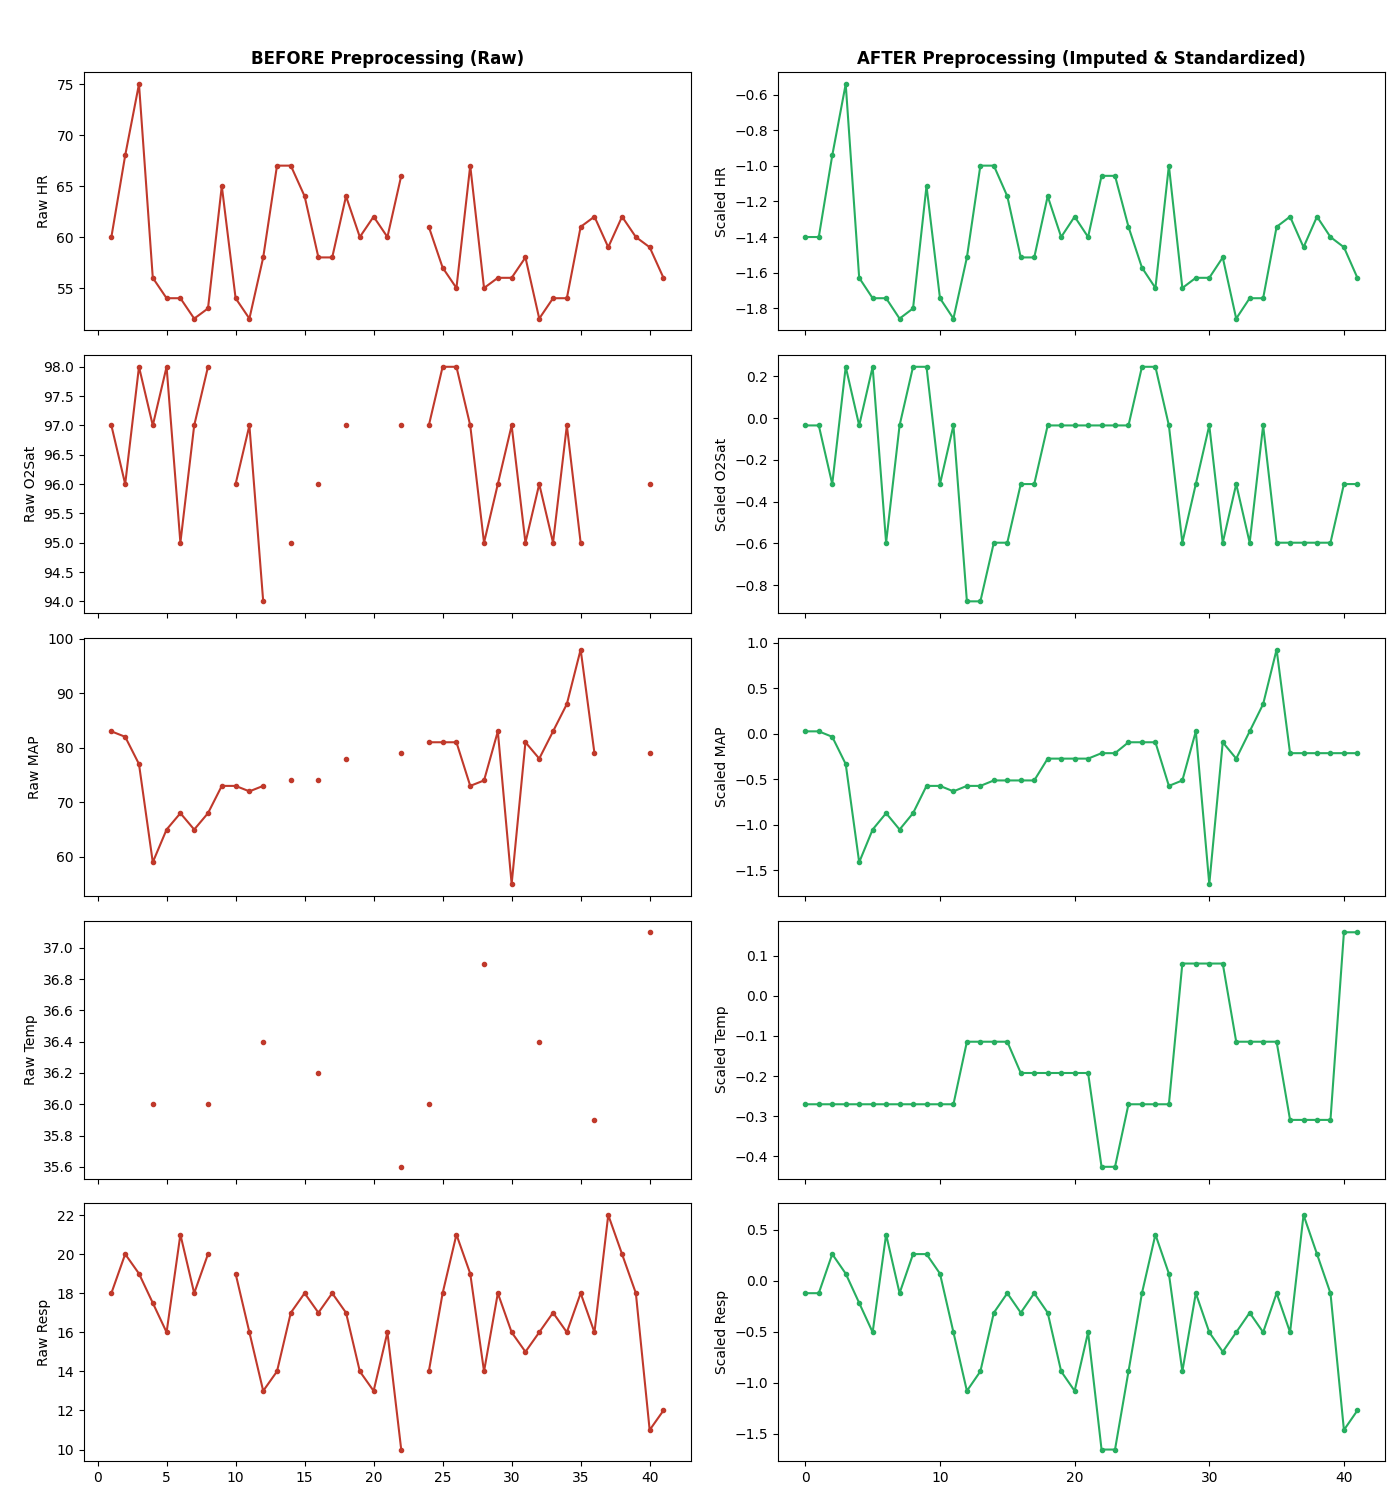
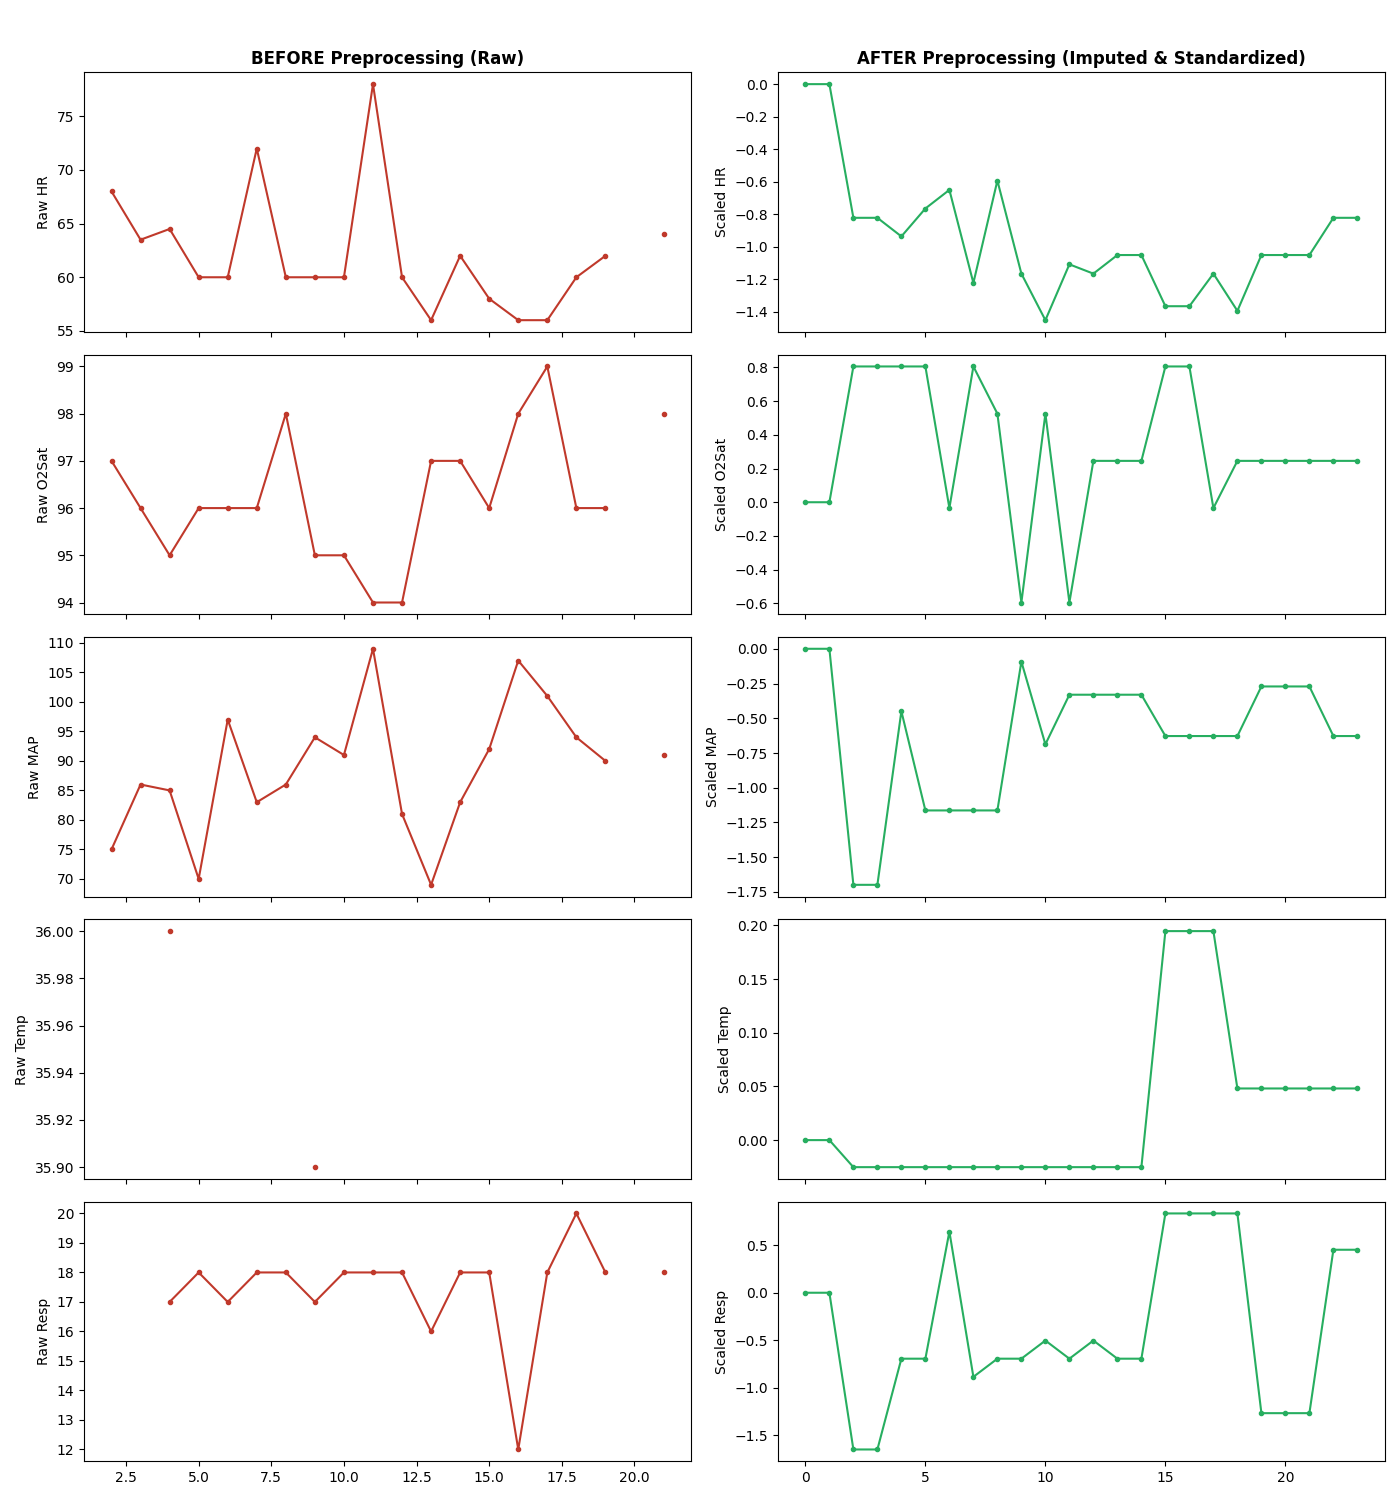
Add preprocessed verification reports and baseline LSTM evaluation results

diff --git a/results/preprocessing_verification/Preprocessing_Verification_Report.md b/results/preprocessing_verification/Preprocessing_Verification_Report.md
@@ -15,8 +15,8 @@ This report presents an independent validation and quality assurance audit of th
 | Metric | Train Split | Validation Split | Test Split | Combined | Overall Audit Status |
 | :--- | :---: | :---: | :---: | :---: | :---: |
 | **Patients** | 28,228 | 6,049 | 6,050 | 40,327 | **PASS WITH WARNINGS** |
-| **Sliding Windows** | 480,380 | 101,366 | 102,955 | 684,701 | **Score: 95/100** |
-| **Sepsis Positive** | 12,405 (2.58%) | 2,718 (2.68%) | 2,488 (2.42%) | 17,611 | **0 Patient Overlaps** |
+| **Sliding Windows** | 477,669 | 104,038 | 102,994 | 684,701 | **Score: 95/100** |
+| **Sepsis Positive** | 12,513 (2.62%) | 2,443 (2.35%) | 2,655 (2.58%) | 17,611 | **0 Patient Overlaps** |
 | **NaN / Infinite Count** | 0 / 0 | 0 / 0 | 0 / 0 | 0 / 0 | **0 Data Leakage** |
 
 ---
@@ -33,22 +33,22 @@ The preprocessed dataset is generated from the raw PhysioNet Computing in Cardio
 ### 4. Verification Details
 
 #### Stage 1: File Existence check
-* `train.pt`: **Found** (1768.37 MB)
-* `validation.pt`: **Found** (373.15 MB)
-* `test.pt`: **Found** (379.00 MB)
+* `train.pt`: **Found** (1758.39 MB)
+* `validation.pt`: **Found** (382.99 MB)
+* `test.pt`: **Found** (379.14 MB)
 * `scaler.pkl`: **Found** (1.51 KB)
-* `preprocessing_metadata.json`: **Found** (1.64 KB)
+* `preprocessing_metadata.json`: **Found** (1.58 KB)
 
 #### Stage 2: Tensor structure check
 * **Keys verified**: `features`, `labels`, `patient_ids`, `hospital_ids` in all splits.
 * **Feature data shapes**:
-  * Train features: `torch.Size([480380, 24, 40])` (`torch.float32`)
-  * Validation features: `torch.Size([101366, 24, 40])` (`torch.float32`)
-  * Test features: `torch.Size([102955, 24, 40])` (`torch.float32`)
+  * Train features: `torch.Size([477669, 24, 40])` (`torch.float32`)
+  * Validation features: `torch.Size([104038, 24, 40])` (`torch.float32`)
+  * Test features: `torch.Size([102994, 24, 40])` (`torch.float32`)
 * **Label data shapes**:
-  * Train labels: `torch.Size([480380, 1])` (`torch.float32`)
-  * Validation labels: `torch.Size([101366, 1])` (`torch.float32`)
-  * Test labels: `torch.Size([102955, 1])` (`torch.float32`)
+  * Train labels: `torch.Size([477669, 1])` (`torch.float32`)
+  * Validation labels: `torch.Size([104038, 1])` (`torch.float32`)
+  * Test labels: `torch.Size([102994, 1])` (`torch.float32`)
 
 #### Stage 3: Missing values and range checks
 * **NaN Count**: 0 (Expected: 0)
@@ -56,14 +56,14 @@ The preprocessed dataset is generated from the raw PhysioNet Computing in Cardio
 * **Empty Tensors**: None
 
 #### Stage 4: Feature standardization check
-* **Overall training mean**: 0.04549196 (Expected: ~0)
-* **Overall training standard deviation**: 1.00042272 (Expected: ~1)
+* **Overall training mean**: 0.04607653 (Expected: ~0)
+* **Overall training standard deviation**: 1.00275338 (Expected: ~1)
 * *Verification*: Standard normal distribution successfully applied. Scaling parameters successfully stored in `scaler.pkl`.
 
 #### Stage 5: Label class imbalance checks
-* **Train split**: Positive = 12,405 (2.58%), Negative = 467,975
-* **Validation split**: Positive = 2,718 (2.68%), Negative = 98,648
-* **Test split**: Positive = 2,488 (2.42%), Negative = 100,467
+* **Train split**: Positive = 12,513 (2.62%), Negative = 465,156
+* **Validation split**: Positive = 2,443 (2.35%), Negative = 101,595
+* **Test split**: Positive = 2,655 (2.58%), Negative = 100,339
 * *Imbalance note*: Highly imbalanced class distribution, typical of clinical event forecasting. Model optimization must use weighted cross entropy or focal loss.
 
 #### Stage 6 & 7: Window generation & pre-padding check
@@ -80,84 +80,88 @@ The preprocessed dataset is generated from the raw PhysioNet Computing in Cardio
 * **Train vs. Test Overlap**: 0 patients
 * **Val vs. Test Overlap**: 0 patients
 * **Hospital stratified proportions (Hospital 0 / Hospital 1)**:
-  * Train split windows: Hospital 0 = 245,152 (51.0%), Hospital 1 = 235,228
-  * Validation split windows: Hospital 0 = 52,109 (51.4%), Hospital 1 = 49,257
-  * Test split windows: Hospital 0 = 52,794 (51.3%), Hospital 1 = 50,161
+  * Train split windows: Hospital 0 = 244,529 (51.2%), Hospital 1 = 233,140
+  * Validation split windows: Hospital 0 = 53,329 (51.3%), Hospital 1 = 50,709
+  * Test split windows: Hospital 0 = 52,197 (50.7%), Hospital 1 = 50,797
 
 ---
 
 ### 5. Warnings and Errors Summary
 
 #### Warnings:
-* [WARNING] Feature HR has non-zero train mean: 0.03447
-* [WARNING] Feature O2Sat has non-unit train std: 0.92775
-* [WARNING] Feature Temp has non-zero train mean: 0.03994
-* [WARNING] Feature Temp has non-unit train std: 0.82804
-* [WARNING] Feature MAP has non-unit train std: 0.97712
-* [WARNING] Feature DBP has non-zero train mean: 0.03049
-* [WARNING] Feature DBP has non-unit train std: 0.94231
-* [WARNING] Feature Resp has non-zero train mean: 0.03832
-* [WARNING] Feature EtCO2 has non-zero train mean: 0.05687
-* [WARNING] Feature EtCO2 has non-unit train std: 1.10886
-* [WARNING] Feature BaseExcess has non-zero train mean: 0.03672
-* [WARNING] Feature BaseExcess has non-unit train std: 1.03849
-* [WARNING] Feature HCO3 has non-zero train mean: 0.02200
-* [WARNING] Feature HCO3 has non-unit train std: 0.98808
-* [WARNING] Feature FiO2 has non-unit train std: 0.48611
-* [WARNING] Feature pH has non-zero train mean: 0.15815
-* [WARNING] Feature pH has non-unit train std: 0.96309
-* [WARNING] Feature PaCO2 has non-zero train mean: 0.10593
-* [WARNING] Feature PaCO2 has non-unit train std: 0.95877
-* [WARNING] Feature SaO2 has non-zero train mean: 0.10537
-* [WARNING] Feature SaO2 has non-unit train std: 1.07216
-* [WARNING] Feature AST has non-zero train mean: 0.02361
-* [WARNING] Feature AST has non-unit train std: 1.06855
-* [WARNING] Feature BUN has non-zero train mean: 0.07053
-* [WARNING] Feature BUN has non-unit train std: 1.02085
-* [WARNING] Feature Alkalinephos has non-zero train mean: 0.06311
-* [WARNING] Feature Alkalinephos has non-unit train std: 0.98516
-* [WARNING] Feature Calcium has non-zero train mean: 0.08527
-* [WARNING] Feature Calcium has non-unit train std: 0.88341
-* [WARNING] Feature Chloride has non-zero train mean: 0.07097
-* [WARNING] Feature Chloride has non-unit train std: 0.97332
-* [WARNING] Feature Creatinine has non-zero train mean: 0.02414
-* [WARNING] Feature Creatinine has non-unit train std: 0.96951
-* [WARNING] Feature Bilirubin_direct has non-zero train mean: 0.04655
-* [WARNING] Feature Bilirubin_direct has non-unit train std: 1.20507
-* [WARNING] Feature Glucose has non-unit train std: 0.92062
-* [WARNING] Feature Lactate has non-zero train mean: 0.07548
-* [WARNING] Feature Lactate has non-unit train std: 0.93933
-* [WARNING] Feature Magnesium has non-zero train mean: 0.11664
-* [WARNING] Feature Magnesium has non-unit train std: 0.87608
-* [WARNING] Feature Phosphate has non-zero train mean: 0.09818
-* [WARNING] Feature Phosphate has non-unit train std: 0.95201
-* [WARNING] Feature Potassium has non-zero train mean: 0.04092
-* [WARNING] Feature Potassium has non-unit train std: 0.88090
-* [WARNING] Feature Bilirubin_total has non-zero train mean: 0.05682
-* [WARNING] Feature Bilirubin_total has non-unit train std: 1.09695
-* [WARNING] Feature TroponinI has non-unit train std: 1.03626
-* [WARNING] Feature Hct has non-zero train mean: 0.01905
-* [WARNING] Feature Hct has non-unit train std: 0.89127
-* [WARNING] Feature Hgb has non-zero train mean: 0.01892
-* [WARNING] Feature Hgb has non-unit train std: 0.88794
-* [WARNING] Feature PTT has non-zero train mean: 0.06878
-* [WARNING] Feature PTT has non-unit train std: 1.04375
-* [WARNING] Feature WBC has non-zero train mean: 0.03655
-* [WARNING] Feature WBC has non-unit train std: 0.97740
-* [WARNING] Feature Fibrinogen has non-zero train mean: 0.07172
-* [WARNING] Feature Fibrinogen has non-unit train std: 1.06404
-* [WARNING] Feature Platelets has non-zero train mean: 0.01915
-* [WARNING] Feature Platelets has non-unit train std: 0.97766
-* [WARNING] Feature Age has non-zero train mean: 0.02427
-* [WARNING] Feature Age has non-unit train std: 0.97909
-* [WARNING] Feature Gender has non-unit train std: 1.02520
-* [WARNING] Feature Unit1 has non-unit train std: 0.96005
-* [WARNING] Feature Unit2 has non-zero train mean: -0.03530
-* [WARNING] Feature Unit2 has non-unit train std: 0.96145
-* [WARNING] Feature HospAdmTime has non-zero train mean: -0.03286
-* [WARNING] Feature HospAdmTime has non-unit train std: 1.14595
-* [WARNING] Feature ICULOS has non-zero train mean: 0.26275
-* [WARNING] Feature ICULOS has non-unit train std: 1.19827
+* [WARNING] Feature HR has non-zero train mean: 0.03422
+* [WARNING] Feature O2Sat has non-unit train std: 0.92320
+* [WARNING] Feature Temp has non-zero train mean: 0.03804
+* [WARNING] Feature Temp has non-unit train std: 0.84132
+* [WARNING] Feature SBP has non-zero train mean: 0.01252
+* [WARNING] Feature MAP has non-unit train std: 0.97697
+* [WARNING] Feature DBP has non-zero train mean: 0.03341
+* [WARNING] Feature DBP has non-unit train std: 0.93857
+* [WARNING] Feature Resp has non-zero train mean: 0.04142
+* [WARNING] Feature Resp has non-unit train std: 1.01304
+* [WARNING] Feature EtCO2 has non-zero train mean: 0.09025
+* [WARNING] Feature EtCO2 has non-unit train std: 1.09603
+* [WARNING] Feature BaseExcess has non-zero train mean: 0.02943
+* [WARNING] Feature BaseExcess has non-unit train std: 1.04921
+* [WARNING] Feature HCO3 has non-zero train mean: 0.02832
+* [WARNING] Feature HCO3 has non-unit train std: 0.98632
+* [WARNING] Feature FiO2 has non-unit train std: 0.48663
+* [WARNING] Feature pH has non-zero train mean: 0.15274
+* [WARNING] Feature pH has non-unit train std: 0.96980
+* [WARNING] Feature PaCO2 has non-zero train mean: 0.09907
+* [WARNING] Feature PaCO2 has non-unit train std: 0.96673
+* [WARNING] Feature SaO2 has non-zero train mean: 0.10646
+* [WARNING] Feature SaO2 has non-unit train std: 1.07432
+* [WARNING] Feature AST has non-zero train mean: 0.02573
+* [WARNING] Feature AST has non-unit train std: 1.06770
+* [WARNING] Feature BUN has non-zero train mean: 0.06780
+* [WARNING] Feature BUN has non-unit train std: 1.01977
+* [WARNING] Feature Alkalinephos has non-zero train mean: 0.05879
+* [WARNING] Feature Alkalinephos has non-unit train std: 0.98689
+* [WARNING] Feature Calcium has non-zero train mean: 0.08740
+* [WARNING] Feature Calcium has non-unit train std: 0.88230
+* [WARNING] Feature Chloride has non-zero train mean: 0.07145
+* [WARNING] Feature Chloride has non-unit train std: 0.97294
+* [WARNING] Feature Creatinine has non-zero train mean: 0.02614
+* [WARNING] Feature Creatinine has non-unit train std: 0.97200
+* [WARNING] Feature Bilirubin_direct has non-zero train mean: 0.04713
+* [WARNING] Feature Bilirubin_direct has non-unit train std: 1.23011
+* [WARNING] Feature Glucose has non-zero train mean: 0.01156
+* [WARNING] Feature Glucose has non-unit train std: 0.92593
+* [WARNING] Feature Lactate has non-zero train mean: 0.07138
+* [WARNING] Feature Lactate has non-unit train std: 0.94043
+* [WARNING] Feature Magnesium has non-zero train mean: 0.11335
+* [WARNING] Feature Magnesium has non-unit train std: 0.87796
+* [WARNING] Feature Phosphate has non-zero train mean: 0.10068
+* [WARNING] Feature Phosphate has non-unit train std: 0.95213
+* [WARNING] Feature Potassium has non-zero train mean: 0.04016
+* [WARNING] Feature Potassium has non-unit train std: 0.87635
+* [WARNING] Feature Bilirubin_total has non-zero train mean: 0.06143
+* [WARNING] Feature Bilirubin_total has non-unit train std: 1.10525
+* [WARNING] Feature TroponinI has non-zero train mean: 0.01224
+* [WARNING] Feature TroponinI has non-unit train std: 1.04680
+* [WARNING] Feature Hct has non-zero train mean: 0.01926
+* [WARNING] Feature Hct has non-unit train std: 0.89064
+* [WARNING] Feature Hgb has non-zero train mean: 0.02001
+* [WARNING] Feature Hgb has non-unit train std: 0.88804
+* [WARNING] Feature PTT has non-zero train mean: 0.09670
+* [WARNING] Feature PTT has non-unit train std: 1.04275
+* [WARNING] Feature WBC has non-zero train mean: 0.03852
+* [WARNING] Feature WBC has non-unit train std: 0.98115
+* [WARNING] Feature Fibrinogen has non-zero train mean: 0.07684
+* [WARNING] Feature Fibrinogen has non-unit train std: 1.06987
+* [WARNING] Feature Platelets has non-zero train mean: 0.01928
+* [WARNING] Feature Platelets has non-unit train std: 0.97453
+* [WARNING] Feature Age has non-zero train mean: 0.01758
+* [WARNING] Feature Age has non-unit train std: 0.98524
+* [WARNING] Feature Gender has non-unit train std: 1.02526
+* [WARNING] Feature Unit1 has non-unit train std: 0.96113
+* [WARNING] Feature Unit2 has non-zero train mean: -0.03780
+* [WARNING] Feature Unit2 has non-unit train std: 0.96117
+* [WARNING] Feature HospAdmTime has non-zero train mean: -0.03678
+* [WARNING] Feature HospAdmTime has non-unit train std: 1.16791
+* [WARNING] Feature ICULOS has non-zero train mean: 0.26049
+* [WARNING] Feature ICULOS has non-unit train std: 1.20427
 
 #### Errors:
 * None
@@ -170,17 +174,17 @@ Below are the visualization plots generated to verify preprocessing correctness:
 
 #### 1. Patient Feature Comparison (Before vs. After Preprocessing)
 The plot displays Heart Rate, SpO2, MAP, Temperature, and Respiration before (raw values with missingness) and after (imputed and standardized) preprocessing:
-![Patient Preprocessing Comparison](file:///c:/FYP/23CSE498-Project-Phase-II/results/preprocessing_verification/patient_preprocessing_comparison.png)
+![Patient Preprocessing Comparison](patient_preprocessing_comparison.png)
 
 #### 2. Short Stay Padding Verification
 The plot displays pre-padding behavior on a short-stay ICU patient ($T < 24$ hours), showing how the early hours of features are padded with zeros to ensure a consistent sequence length of 24 for LSTM layers:
-![Padding Verification](file:///c:/FYP/23CSE498-Project-Phase-II/results/preprocessing_verification/padding_verification.png)
+![Padding Verification](padding_verification.png)
 
 ---
 
 ### 7. Reports Generated
-* **Markdown Report**: [Preprocessing_Verification_Report.md](file:///c:/FYP/23CSE498-Project-Phase-II/results/preprocessing_verification/Preprocessing_Verification_Report.md)
-* **PDF Report**: [Preprocessing_Verification_Report.pdf](file:///c:/FYP/23CSE498-Project-Phase-II/results/preprocessing_verification/Preprocessing_Verification_Report.pdf)
+* **Markdown Report**: [Preprocessing_Verification_Report.md](Preprocessing_Verification_Report.md)
+* **PDF Report**: [Preprocessing_Verification_Report.pdf](Preprocessing_Verification_Report.pdf)
 
 ---
 